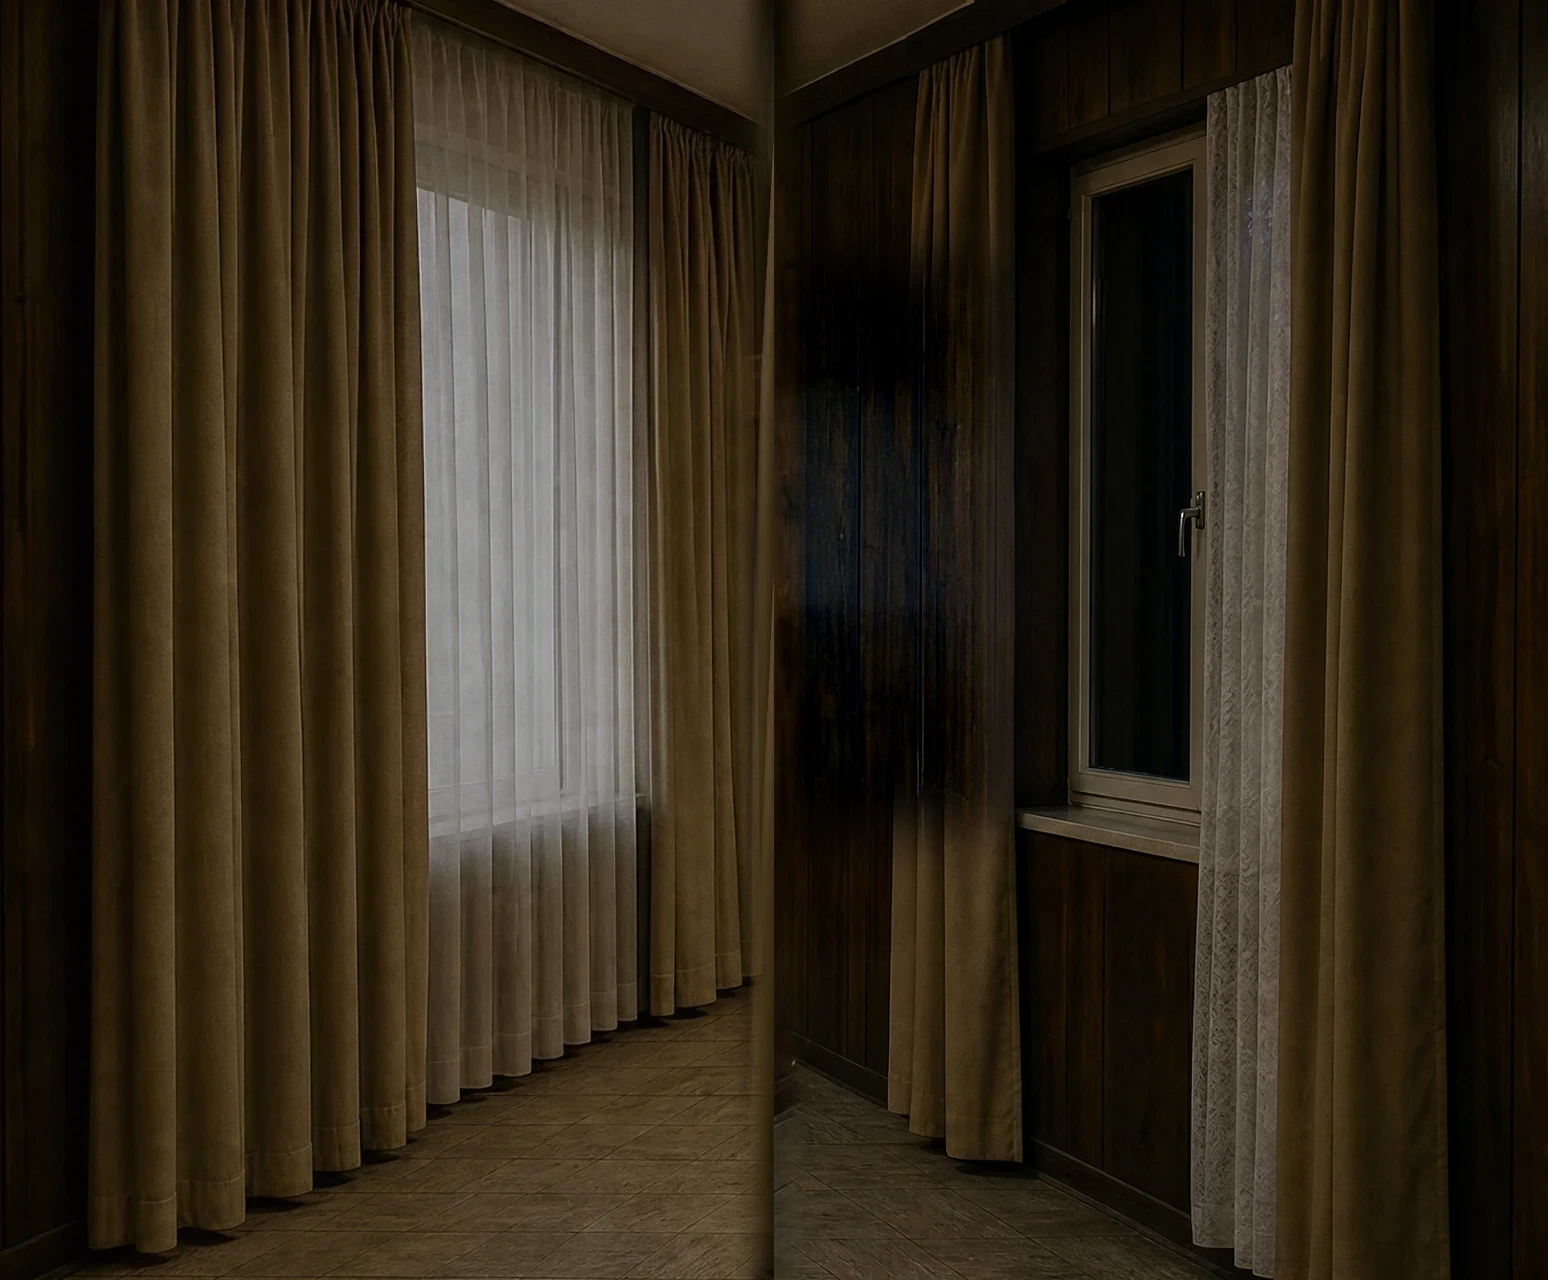
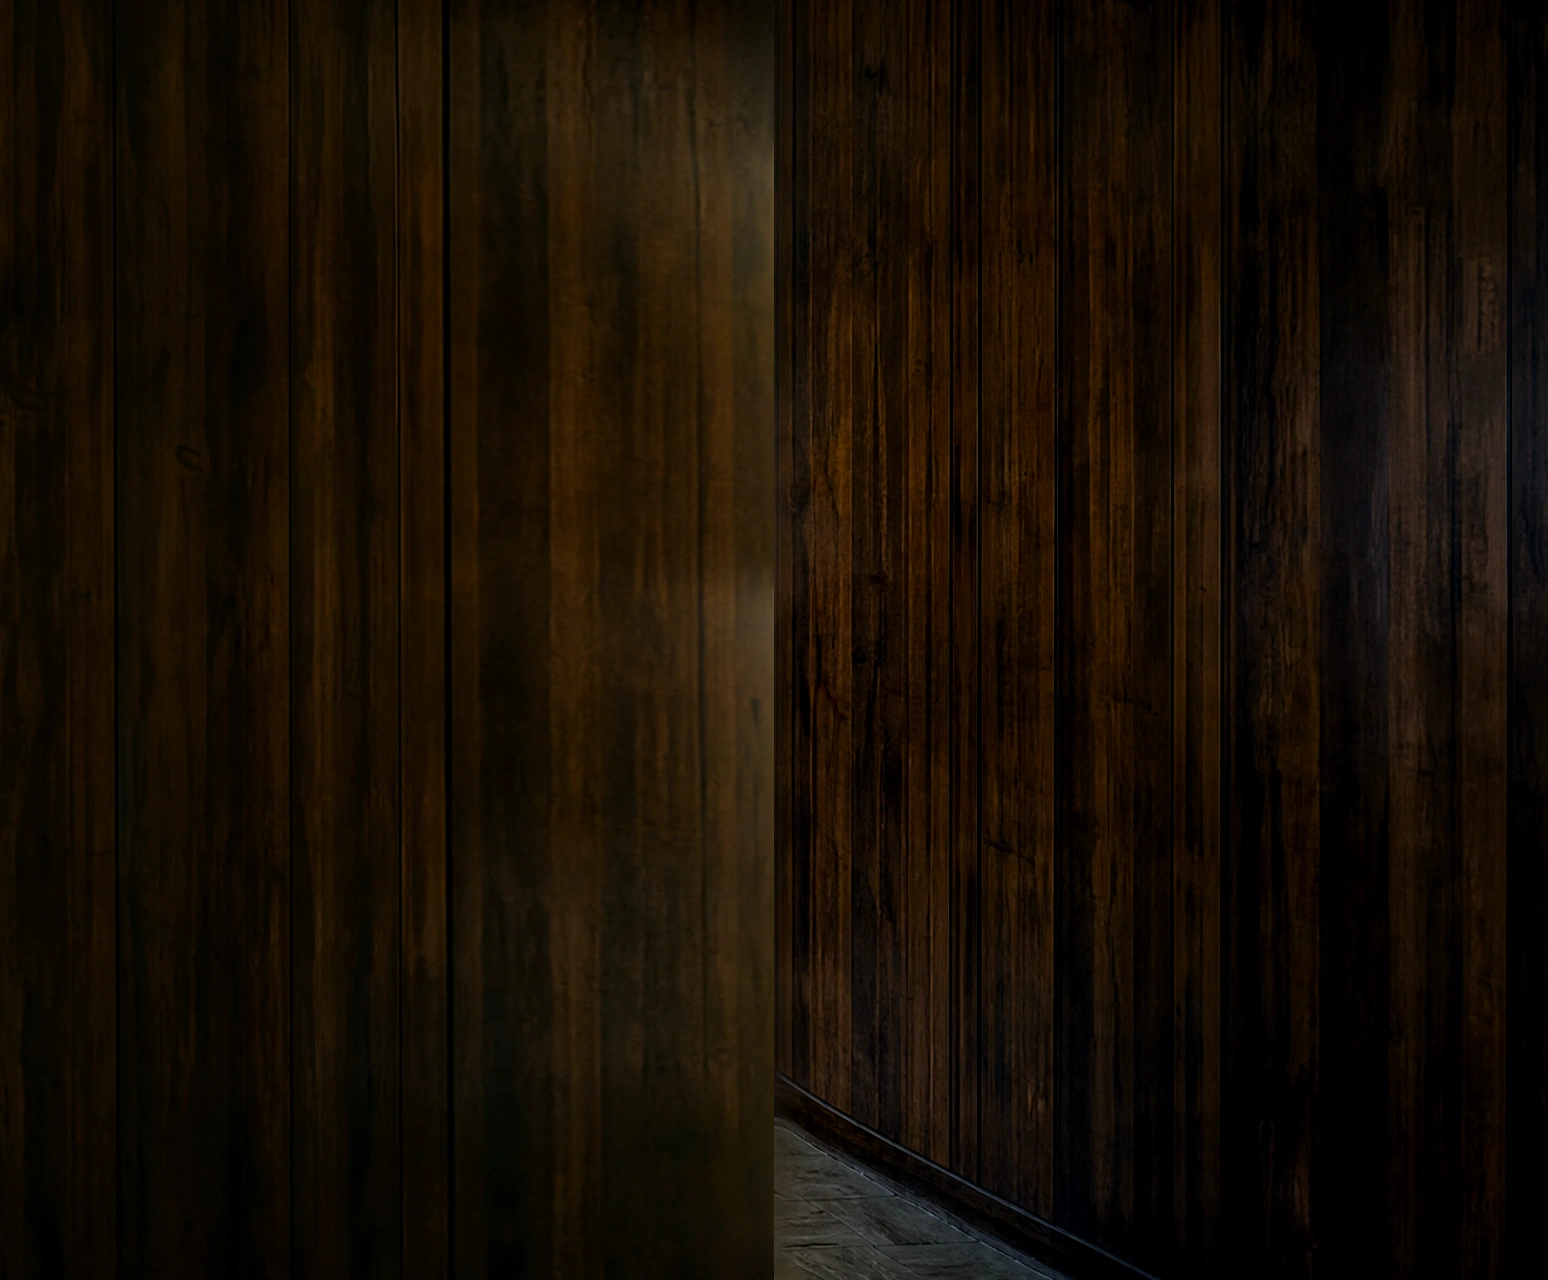
Keep Warroom panoramic architecture consistent across years

diff --git a/src/ui/map/components/warroom/warroom-scene-plate.css b/src/ui/map/components/warroom/warroom-scene-plate.css
@@ -3,7 +3,8 @@
   position: absolute;
   inset-block: 0;
   /* The atlas contains two 774 px wings for the 2292 px reference center. */
-  width: calc(max(calc((var(--interface-viewport-width, 100vw) - 100%) / 2), calc(100% * 774 / 2292)) + 1px);
+  --wing-overlap: 1px;
+  width: calc(max(calc((var(--interface-viewport-width, 100vw) - 100%) / 2), calc(100% * 774 / 2292)) + var(--wing-overlap));
   background-size: 200% 100%;
   background-repeat: no-repeat;
   pointer-events: none;
@@ -16,10 +17,20 @@
 }
 
 .warroom-scene-wing--right {
-  left: calc(100% - 1px);
+  left: calc(100% - var(--wing-overlap));
   background-position: right center;
 }
 
 @media (min-aspect-ratio: 43/24) {
   .warroom-scene-wing { display: block; }
+
+  /* The RBiH source has a bright edge across the clipped switch plate.
+     Fade just that decorative edge over its prepared seven-pixel overlap. */
+  [data-soften-right-join="true"] > .warroom-scene-wing--right {
+    --wing-overlap: 0.3%;
+  }
+
+  [data-soften-right-join="true"] > img {
+    mask-image: linear-gradient(to right, #000 99.7%, transparent 99.94%);
+  }
 }

diff --git a/src/ui/map/components/warroom/WarroomScenePlate.tsx b/src/ui/map/components/warroom/WarroomScenePlate.tsx
@@ -8,6 +8,7 @@ export const WARROOM_SCENE_ASPECT = WARROOM_SCENE_WIDTH / WARROOM_SCENE_HEIGHT;
 export interface WarroomScenePlateProps {
   src: string;
   wideSrc?: string;
+  softenRightJoin?: boolean;
   state?: 'current' | 'incoming';
   transformOrigin?: string;
   className?: string;
@@ -21,6 +22,7 @@ export interface WarroomScenePlateProps {
 export function WarroomScenePlate({
   src,
   wideSrc,
+  softenRightJoin,
   state = 'current',
   transformOrigin,
   className,
@@ -35,6 +37,7 @@ export function WarroomScenePlate({
       className={className}
       data-testid="warroom-scene-plate"
       data-scene-state={state}
+      data-soften-right-join={wideSrc && softenRightJoin ? true : undefined}
       style={{
         position: 'absolute',
         left: '50%',

diff --git a/tests/ui/warroom_scene_continuity.test.ts b/tests/ui/warroom_scene_continuity.test.ts
@@ -84,10 +84,11 @@ describe('Warroom scene continuity', () => {
   it('keeps both panoramic extensions and the interactive children in the original coordinate frame', () => {
     render(createElement(
       WarroomScenePlate,
-      { src: '/room.webp', wideSrc: '/wings.webp' },
+      { src: '/room.webp', wideSrc: '/wings.webp', softenRightJoin: true },
       createElement('button', { type: 'button' }, 'Hotspot'),
     ));
     const plate = screen.getByTestId('warroom-scene-plate');
+    expect(plate.getAttribute('data-soften-right-join')).toBe('true');
     const wings = screen.getAllByTestId('warroom-scene-wing');
     expect(wings).toHaveLength(2);
     for (const wing of wings) {

diff --git a/src/ui/map/components/warroom/WarroomShellLayer.tsx b/src/ui/map/components/warroom/WarroomShellLayer.tsx
@@ -1120,7 +1120,10 @@ export function WarroomShellLayer({ onNavigate, onOpenSidePicker, statusDock }: 
         overflow: 'hidden',
       }}
     >
-      <WarroomScenePlate src={scenePlateUrl} wideSrc={warroomWideSceneUrl(playerFaction, year)}>
+      <WarroomScenePlate src={scenePlateUrl}
+        wideSrc={warroomWideSceneUrl(playerFaction, year)}
+        softenRightJoin={playerFaction === 'RBiH'}
+      >
         <WarroomToolbar onNavigate={onNavigate} />
         {statusDock}
         {deskMapRegion ? (

diff --git a/docs/PROJECT_LEDGER_KNOWLEDGE.md b/docs/PROJECT_LEDGER_KNOWLEDGE.md
@@ -1434,7 +1434,7 @@ An authored calendar window may make a historical notification eligible, but it 
 
 **Tactical-map performance packets should start by cutting duplicate render work before chasing bigger rewrites (2026-04-15):** `MapContainer` owns multiple deck-layer update paths and a pulse RAF loop, so the first honest performance seam is render churn, not speculative algorithm surgery. The safe pattern is: route every Deck overlay update through one guard that compares the actual render inputs before calling `deckOverlay.setProps(...)`, and gate animation loops so they sleep when no staged arrows, ghost paths, or visible recent battle markers exist. This is a real reduction in needless renderer work, but it is **not** a benchmark artifact and should never be reported as a measured FPS win unless a before/after capture exists. Applied in `[2026-04-15] perf(ui): reduce tactical map render churn`.
 
-**Preserve the Warroom center when extending its field of view (2026-11-08).** Register generated side art to the existing image, keep the center asset authoritative, and position the decorative panels in the same logical viewport as the live scene. The map, date and clickable polygons stay in their authored coordinate space. Use a slight panel overlap behind the plate to avoid a fractional-pixel seam. See the 2026-11-08 Warroom panorama ledger entry.
+**Preserve the Warroom center when extending its field of view (2026-11-08).** Register generated side art to the existing image, keep the center asset authoritative, and position the decorative panels in the same logical viewport as the live scene. The map, date and clickable polygons stay in their authored coordinate space. Use a slight panel overlap behind the plate to avoid a fractional-pixel seam. Give all years of a faction one side-art master, and vary the grading. Continue trim along its perspective through the join. Verify visually at native scale, since coordinate assertions cannot catch architecture drifting between years. See the 2026-11-08 Warroom panorama and continuity ledger entries.
 
 **Warroom shell hotspots must be real buttons at the React owner layer, not hover-only rectangles (2026-04-15):** `src/ui/map/components/warroom/WarroomShellLayer.tsx` is the canonical accessibility seam for the Warroom overlay. If a hotspot is meant to navigate, it must expose native button semantics, a stable accessible label, and keyboard activation (`Enter` / `Space`) at that owner layer. `title` text on an absolutely positioned `div` is not enough: it leaves the shell mouse-only and unnamed for assistive tech. The safe pattern is to centralize the label (`getWarroomRegionLabel`) from tooltip-or-id, keep the region mapping (`regionToShellHandoff`) separate from accessibility naming, and announce unavailable shell state through a polite `role="status"` region. Applied in `[2026-04-15] feat(ui): make Warroom hotspots keyboard-accessible`.
 

diff --git a/docs/PROJECT_LEDGER.md b/docs/PROJECT_LEDGER.md
@@ -13906,3 +13906,11 @@ All 15 faction/year Warroom scenes have decorative side atlases derived from 384
 
 - Verification: all 15 assets resolve and bundle; all 12 live-selectable rooms pass relative hotspot, map, and date-board registration at 1280 × 720 and 3426 × 1186. The 150% interface-scale and seam follow-up also passed. Focused tests 111/111, typecheck, production map build, chunk cycle check, and board-luminance check pass.
 - Presentation only. No simulation, state, save, scenario, or calibration effect. Local evidence is under F:/AWWV-worktrees/.warroom-ultrawide.
+
+## 2026-11-08 — Fix Warroom panorama architectural continuity (UI, ART)
+
+Rebuilt all 15 extensions using one fixed side-art master per faction. RBiH uses the 1992 plaster-and-rail master, RS the 1991 wood-paneled master, and HRHB the 1992 plaster-and-tile master. Lighting is matched per year to the original center and the original year-specific props remain visible. The transitions follow the neighboring perspective. RBiH has a small ultrawide-only edge overlap to finish its cropped switch plate.
+
+- Compared five-year sequences and inspected 30 joins. The normal and ultrawide browser matrix verified 12 live rooms, each with ten registered targets and overlays, and direct scene previews covered all three 1991 entries.
+- Focused Warroom tests 111/111, followed by 23/23 after the RBiH join change. Typecheck, production map build, all 15 packaged map atlases, chunk cycle check, and board-luminance check passed. No simulation, state, save, scenario, or calibration changes.
+- Evidence is under F:/AWWV-worktrees/.warroom-ultrawide/continuity-fix. No native Electron package or hosted CI run in this slice.

diff --git a/docs/20_engineering/MAP_UI_MASTER.md b/docs/20_engineering/MAP_UI_MASTER.md
@@ -18,7 +18,7 @@
 
 ---
 
-The live Warroom extends the aspect-fit plate with a two-panel panoramic WebP for each faction and year. These decorative panels share the plate height and use logical viewport dimensions for interface scaling. The existing room image owns the clickable regions, map, date board, and toolbar coordinate frame. Opening previews still use the standard scene plate.
+The live Warroom extends the aspect-fit plate with a two-panel panoramic WebP for each faction and year. Each faction uses one fixed side-art master across its five years. Annual grading matches the original center lighting and dressing. Review the ceiling, wall, and floor joins at native scale, and compare permanent openings across the five-year sequence. These decorative panels share the plate height and use logical viewport dimensions for interface scaling. The existing room image owns the clickable regions, map, date board, and toolbar coordinate frame. Opening previews still use the standard scene plate.
 
 ## 1. Directory Layout
 
